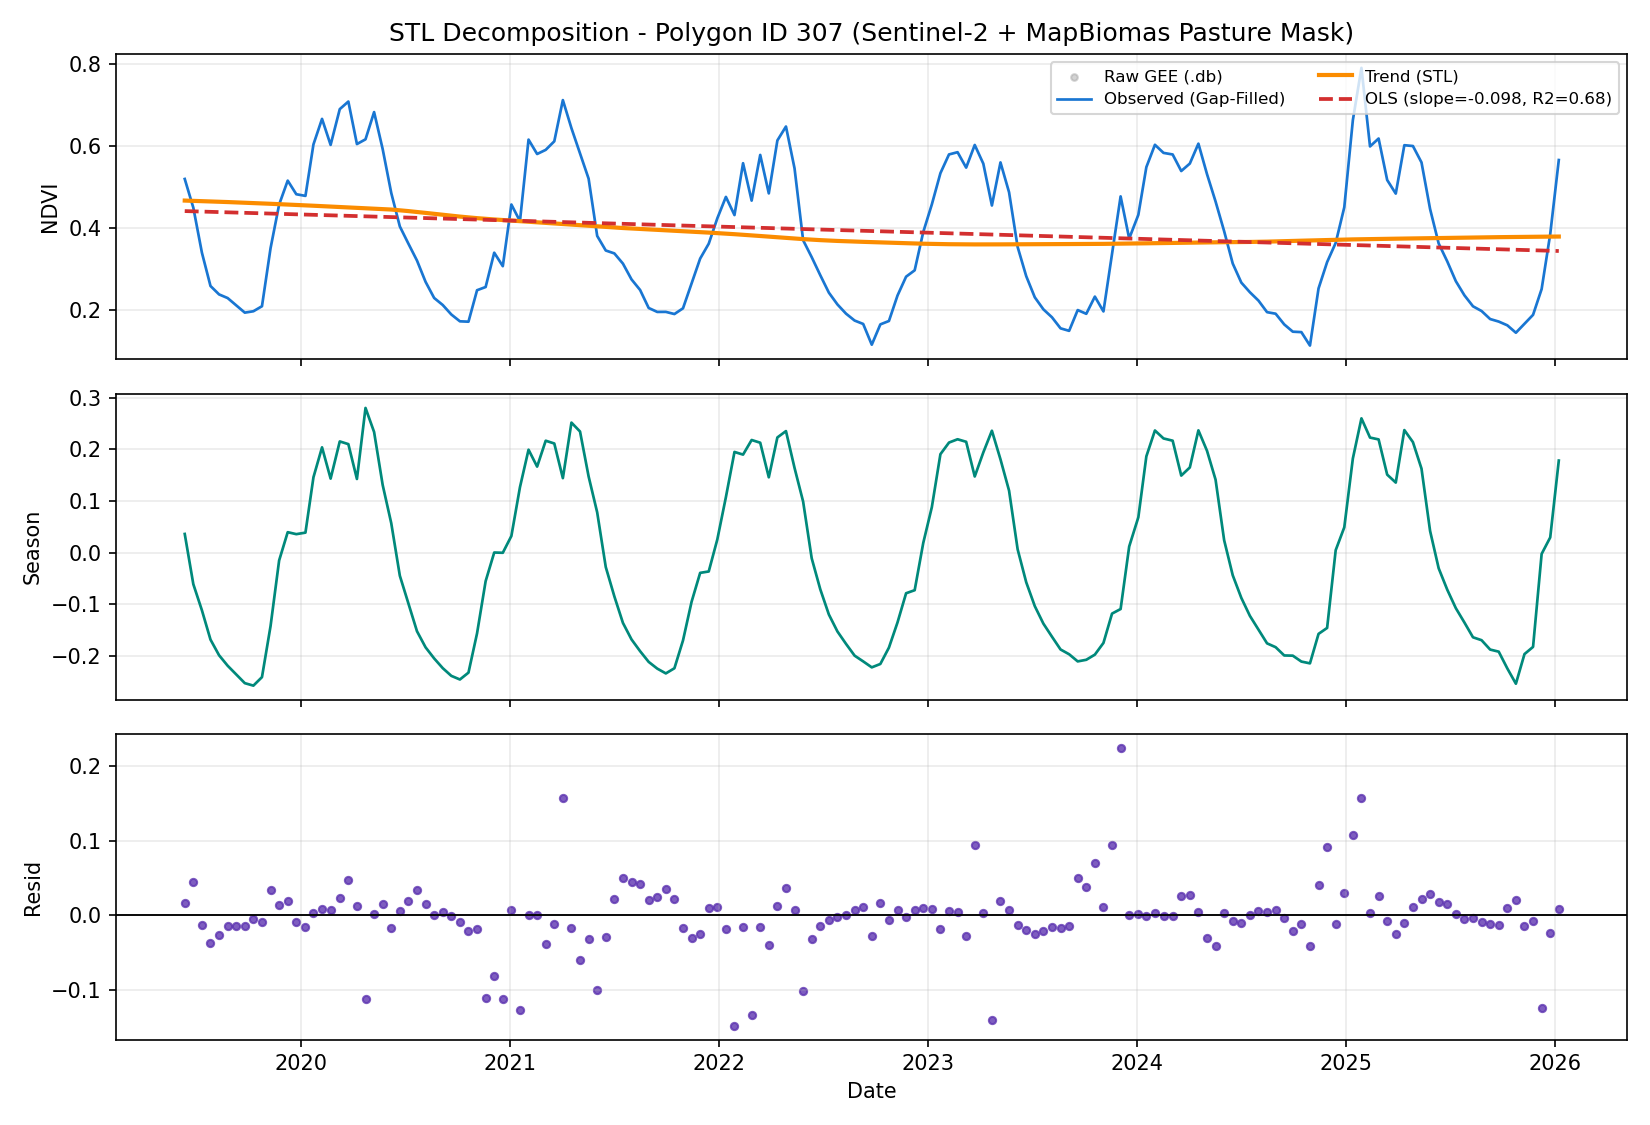
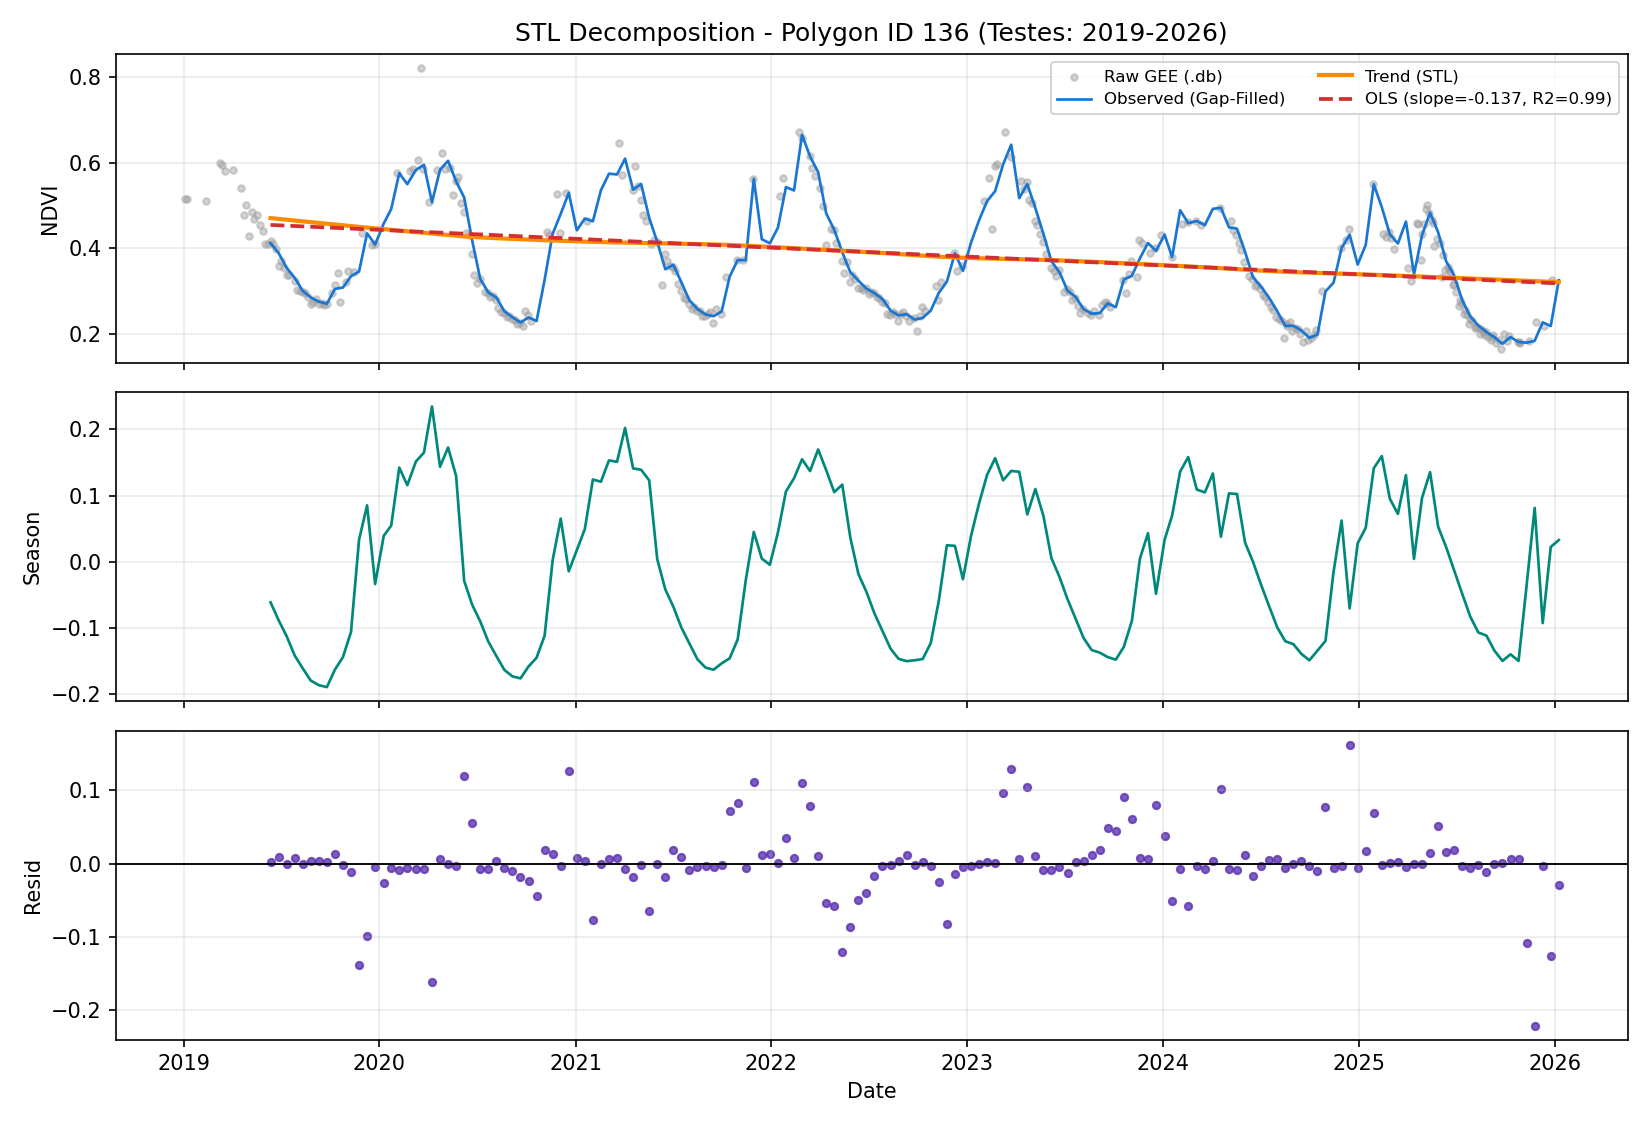
docs: use Testes dataset examples, add animated STL GIF, and include all 9 Thera animations

diff --git a/docs/dashboard.md b/docs/dashboard.md
@@ -23,16 +23,18 @@ Open **http://localhost:8501** in your browser.
 
 ---
 
-## 🦖 Thera Mascot Monitor
+## 🦖 Thera Mascot Monitor (All 9 Animated States)
 
 The sidebar hosts **Thera**, an animated pixel-art companion driven by `thera_animator.py` and `Thera/animations_web/*.gif`:
 
-| State | Trigger | Preview |
+| State | Trigger | Animation |
 |:---|:---|:---:|
-| **Sleeping** (`sleeping.gif`) | Idle / waiting for jobs | — |
-| **Waking** (`waking.gif`) | Pipeline starts | — |
-| **Running** (`running.gif`) / **Lot** (`lot.gif`) | GEE extraction (`lot.gif` for `> 1000` polygons) | — |
-| **Critical Damage** (`damage.gif`) | New `ERROR` detected in log, then returns to running | — |
-| **JetPack** (`jetpack.gif`) | Trend analysis stage (`STL` + `OLS`) | ![JetPack](assets/thera_jetpack.gif){ width="120" } |
-| **Tired → Gonna Sleep** | Pipeline completes (`exit code 0`) | — |
-| **Analysing** (`analysing.gif`) | Interacting with Table, Time Series, or SQLite tabs | ![Analysing](assets/thera_analysing.gif){ width="120" } |
+| **Sleeping** (`sleeping.gif`) | Idle / waiting for jobs | ![Sleeping](assets/thera_sleeping.gif){ width="110" } |
+| **Waking** (`waking.gif`) | Pipeline starts | ![Waking](assets/thera_waking.gif){ width="110" } |
+| **Running** (`running.gif`) | Standard GEE extraction | ![Running](assets/thera_running.gif){ width="110" } |
+| **Lot** (`lot.gif`) | Large batch (`> 1000` polygons) | ![Lot](assets/thera_lot.gif){ width="110" } |
+| **Critical Damage** (`damage.gif`) | New `ERROR` detected in log, then returns to running | ![Damage](assets/thera_damage.gif){ width="110" } |
+| **JetPack** (`jetpack.gif`) | Trend analysis stage (`STL` + `OLS`) | ![JetPack](assets/thera_jetpack.gif){ width="110" } |
+| **Tired** (`tired.gif`) | Pipeline completes (`exit code 0`) | ![Tired](assets/thera_tired.gif){ width="110" } |
+| **Gonna Sleep** (`gonna_sleep.gif`) | Transition back to idle after `tired` | ![Gonna Sleep](assets/thera_gonna_sleep.gif){ width="110" } |
+| **Analysing** (`analysing.gif`) | Interacting with Table, Time Series, or SQLite tabs | ![Analysing](assets/thera_analysing.gif){ width="110" } |

diff --git a/docs/examples.md b/docs/examples.md
@@ -1,21 +1,29 @@
-# Visual Examples
+# Visual Examples (`Testes/` Dataset)
 
-Results below were generated using **TheroPoDa+ v3** on the LAPIG Goiás fieldwork sample dataset (`460` polygons, Sentinel-2 `2019-01-01` to `2026-01-01`, MapBiomas Collection 11 Pasture mask `-mc 15`).
+Results below were generated using **TheroPoDa+ v3** (`Testes/` run) on the LAPIG Goiás fieldwork sample dataset (`460` polygons total, `457` valid pasture polygons extracted, `3` empty after mask, `0` errors; Sentinel-2 `2019-01-01` to `2026-01-01`, MapBiomas Collection 11 Pasture mask `-mc 15`).
 
 ---
 
-## 1. Landscape Trend Distribution (`trend_m` & `trend_pv`)
+## 1. Animated NDVI & STL Trend Progression (`ID_POINTS = 136`)
 
-Distribution of the OLS trend slope (`trend_m`) and statistical significance (`trend_pv` vs. `trend_m`, colored by `R²`) across all extracted polygons:
+Progressive animation showing raw GEE observations (`.db`, table `observations`), gap-filled standardized series (`SeasConvFill`), non-linear `STL` trend, and `OLS` linear slope over `2019–2026`:
+
+![Animated STL Trend](assets/stl_animated.gif)
+
+---
+
+## 2. Landscape Trend Distribution (`trend_m` & `trend_pv`)
+
+Distribution of the OLS trend slope (`trend_m`) and statistical significance (`trend_pv` vs. `trend_m`, colored by `R²`) across all `457` valid polygons:
 
 ![Trend Distribution](assets/trend_distribution.png)
 
 ---
 
-## 2. Per-Polygon STL Decomposition (`Observed`, `Season`, `Resid`)
+## 3. Per-Polygon 3-Panel STL Decomposition (`ID_POINTS = 136`)
 
-3-panel STL decomposition for an individual polygon (`ID_POINTS = 307`), combining:
-- **Top:** Raw GEE observations (`.db`), gap-filled standardized series (`SeasConvFill`), non-linear `STL` trend, and `OLS` linear slope.
+3-panel STL decomposition matching the Dashboard's **Série Temporal por Polígono** tab:
+- **Top:** Raw GEE observations (`.db`), gap-filled standardized series, `STL` trend, and `OLS` linear slope.
 - **Middle:** Extracted seasonal cycle (`Season`).
 - **Bottom:** Residual noise (`Resid`).
 
